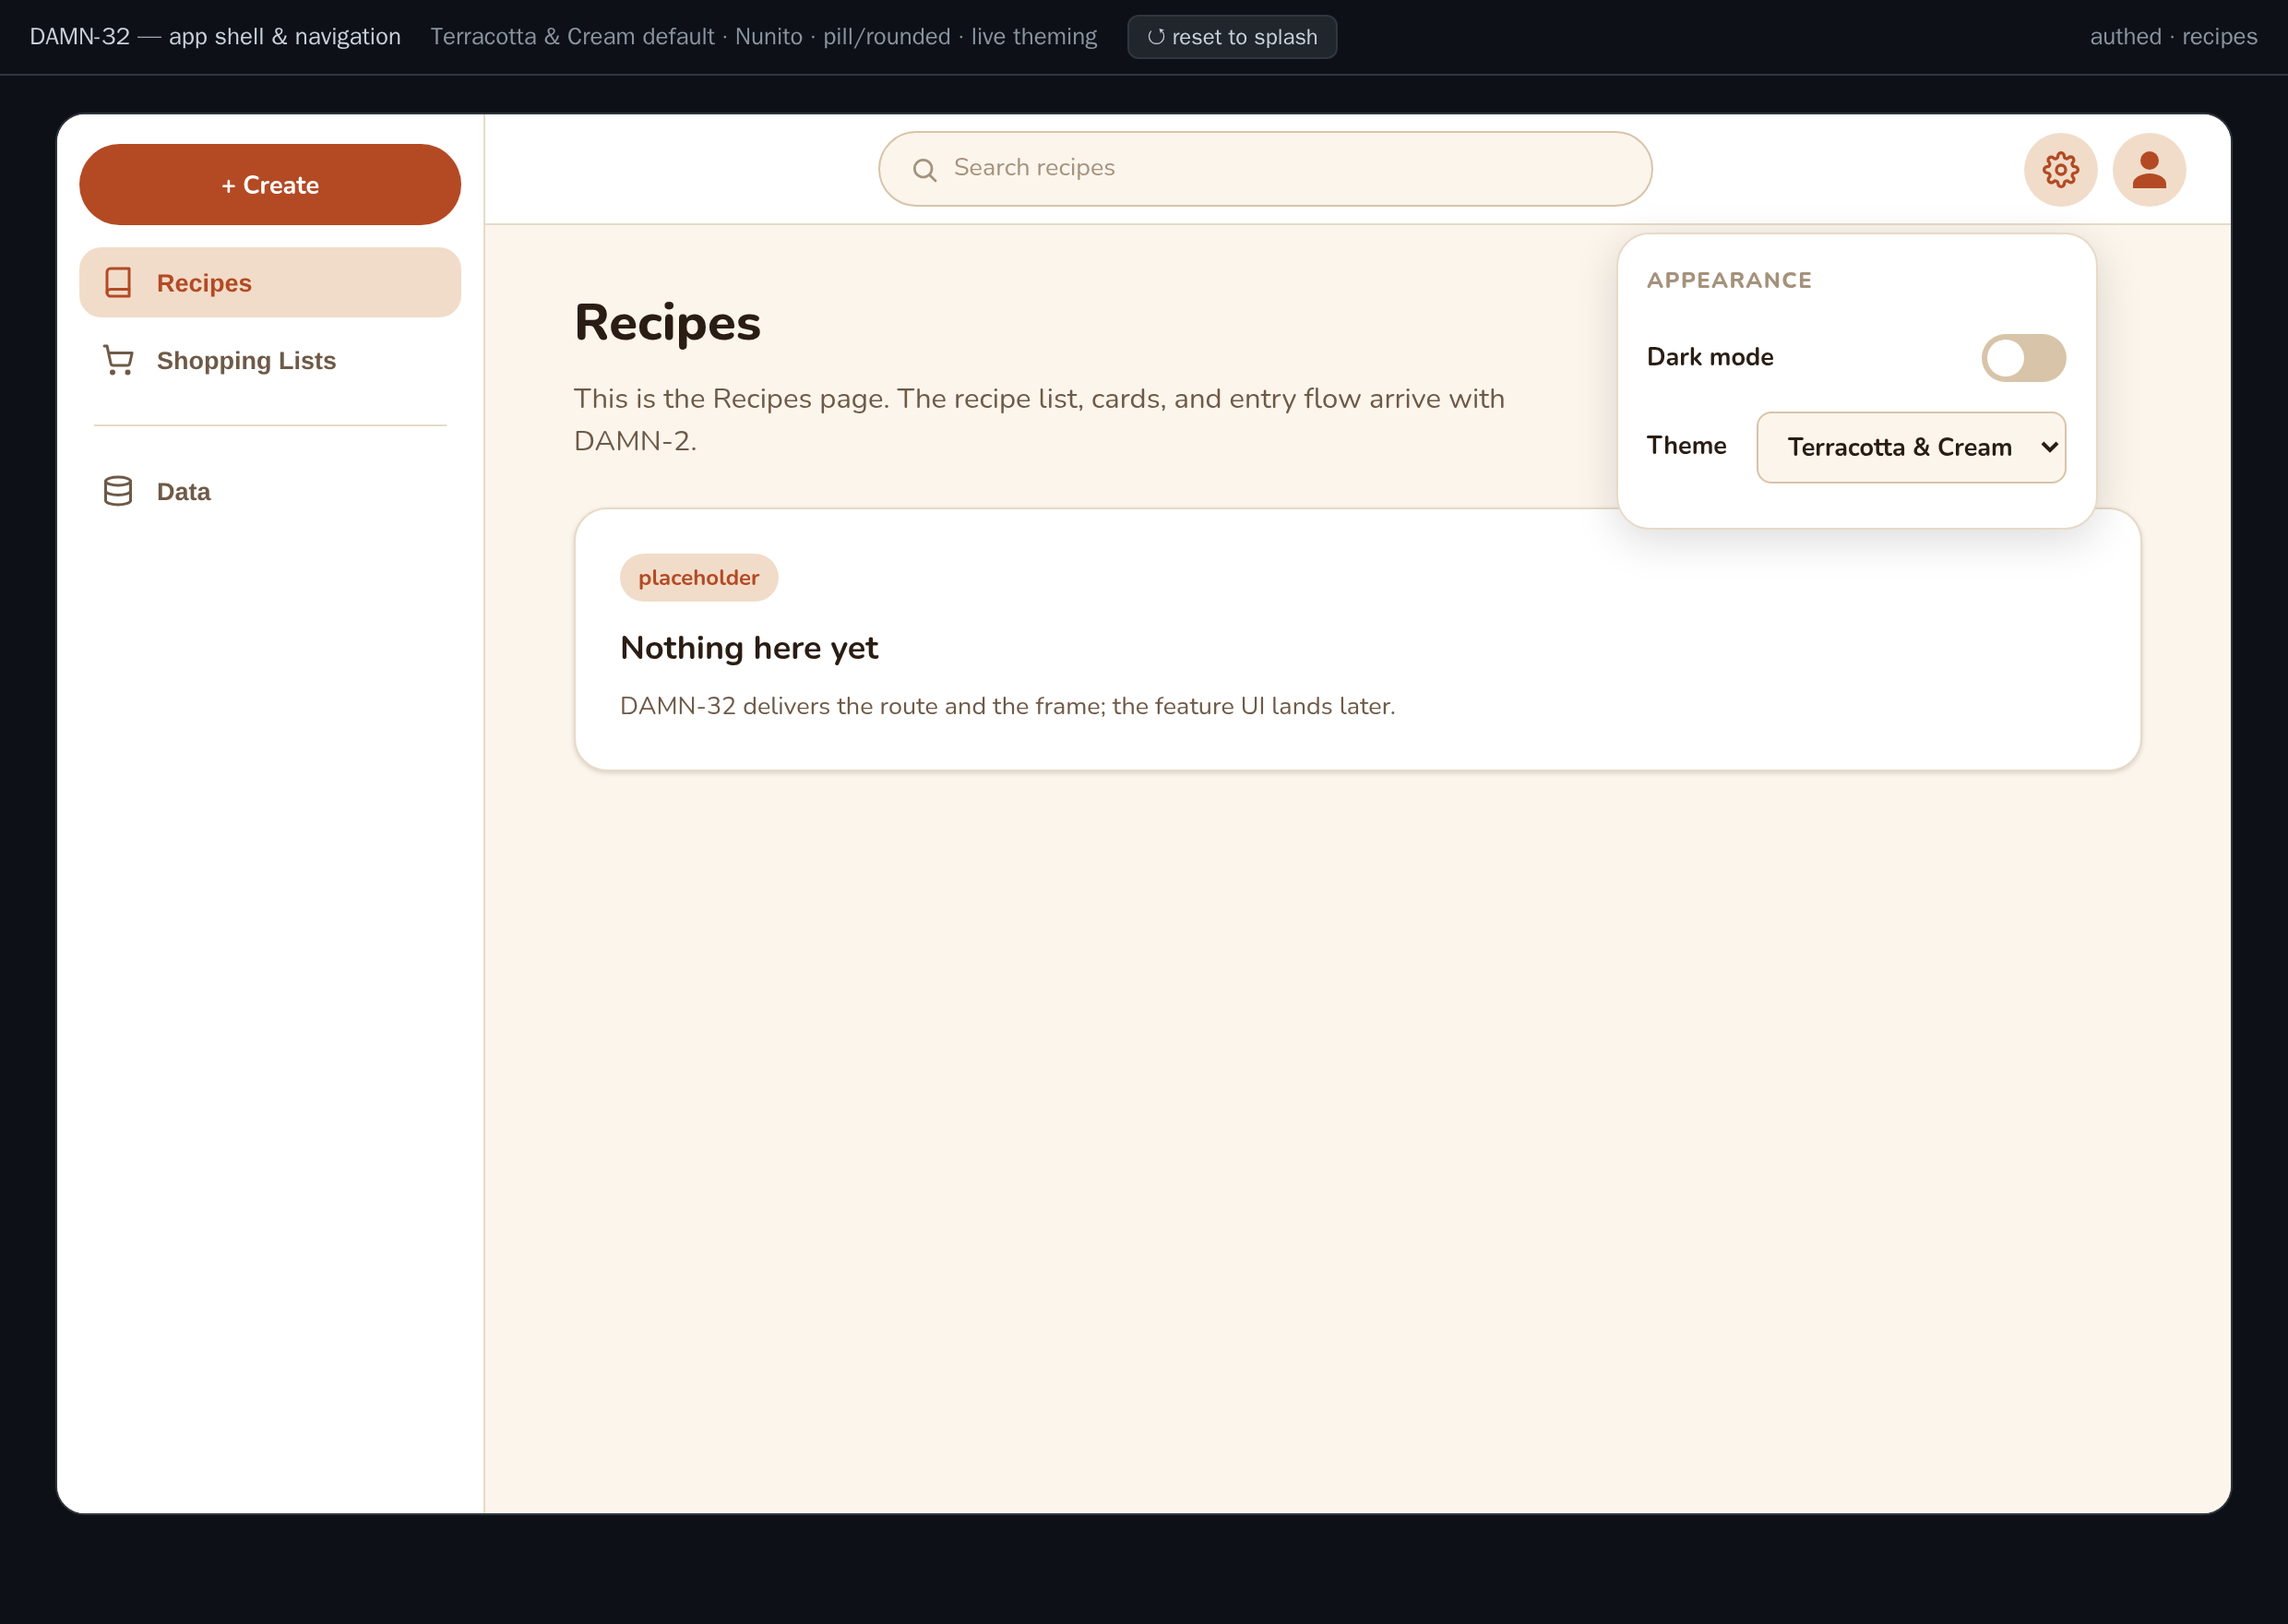
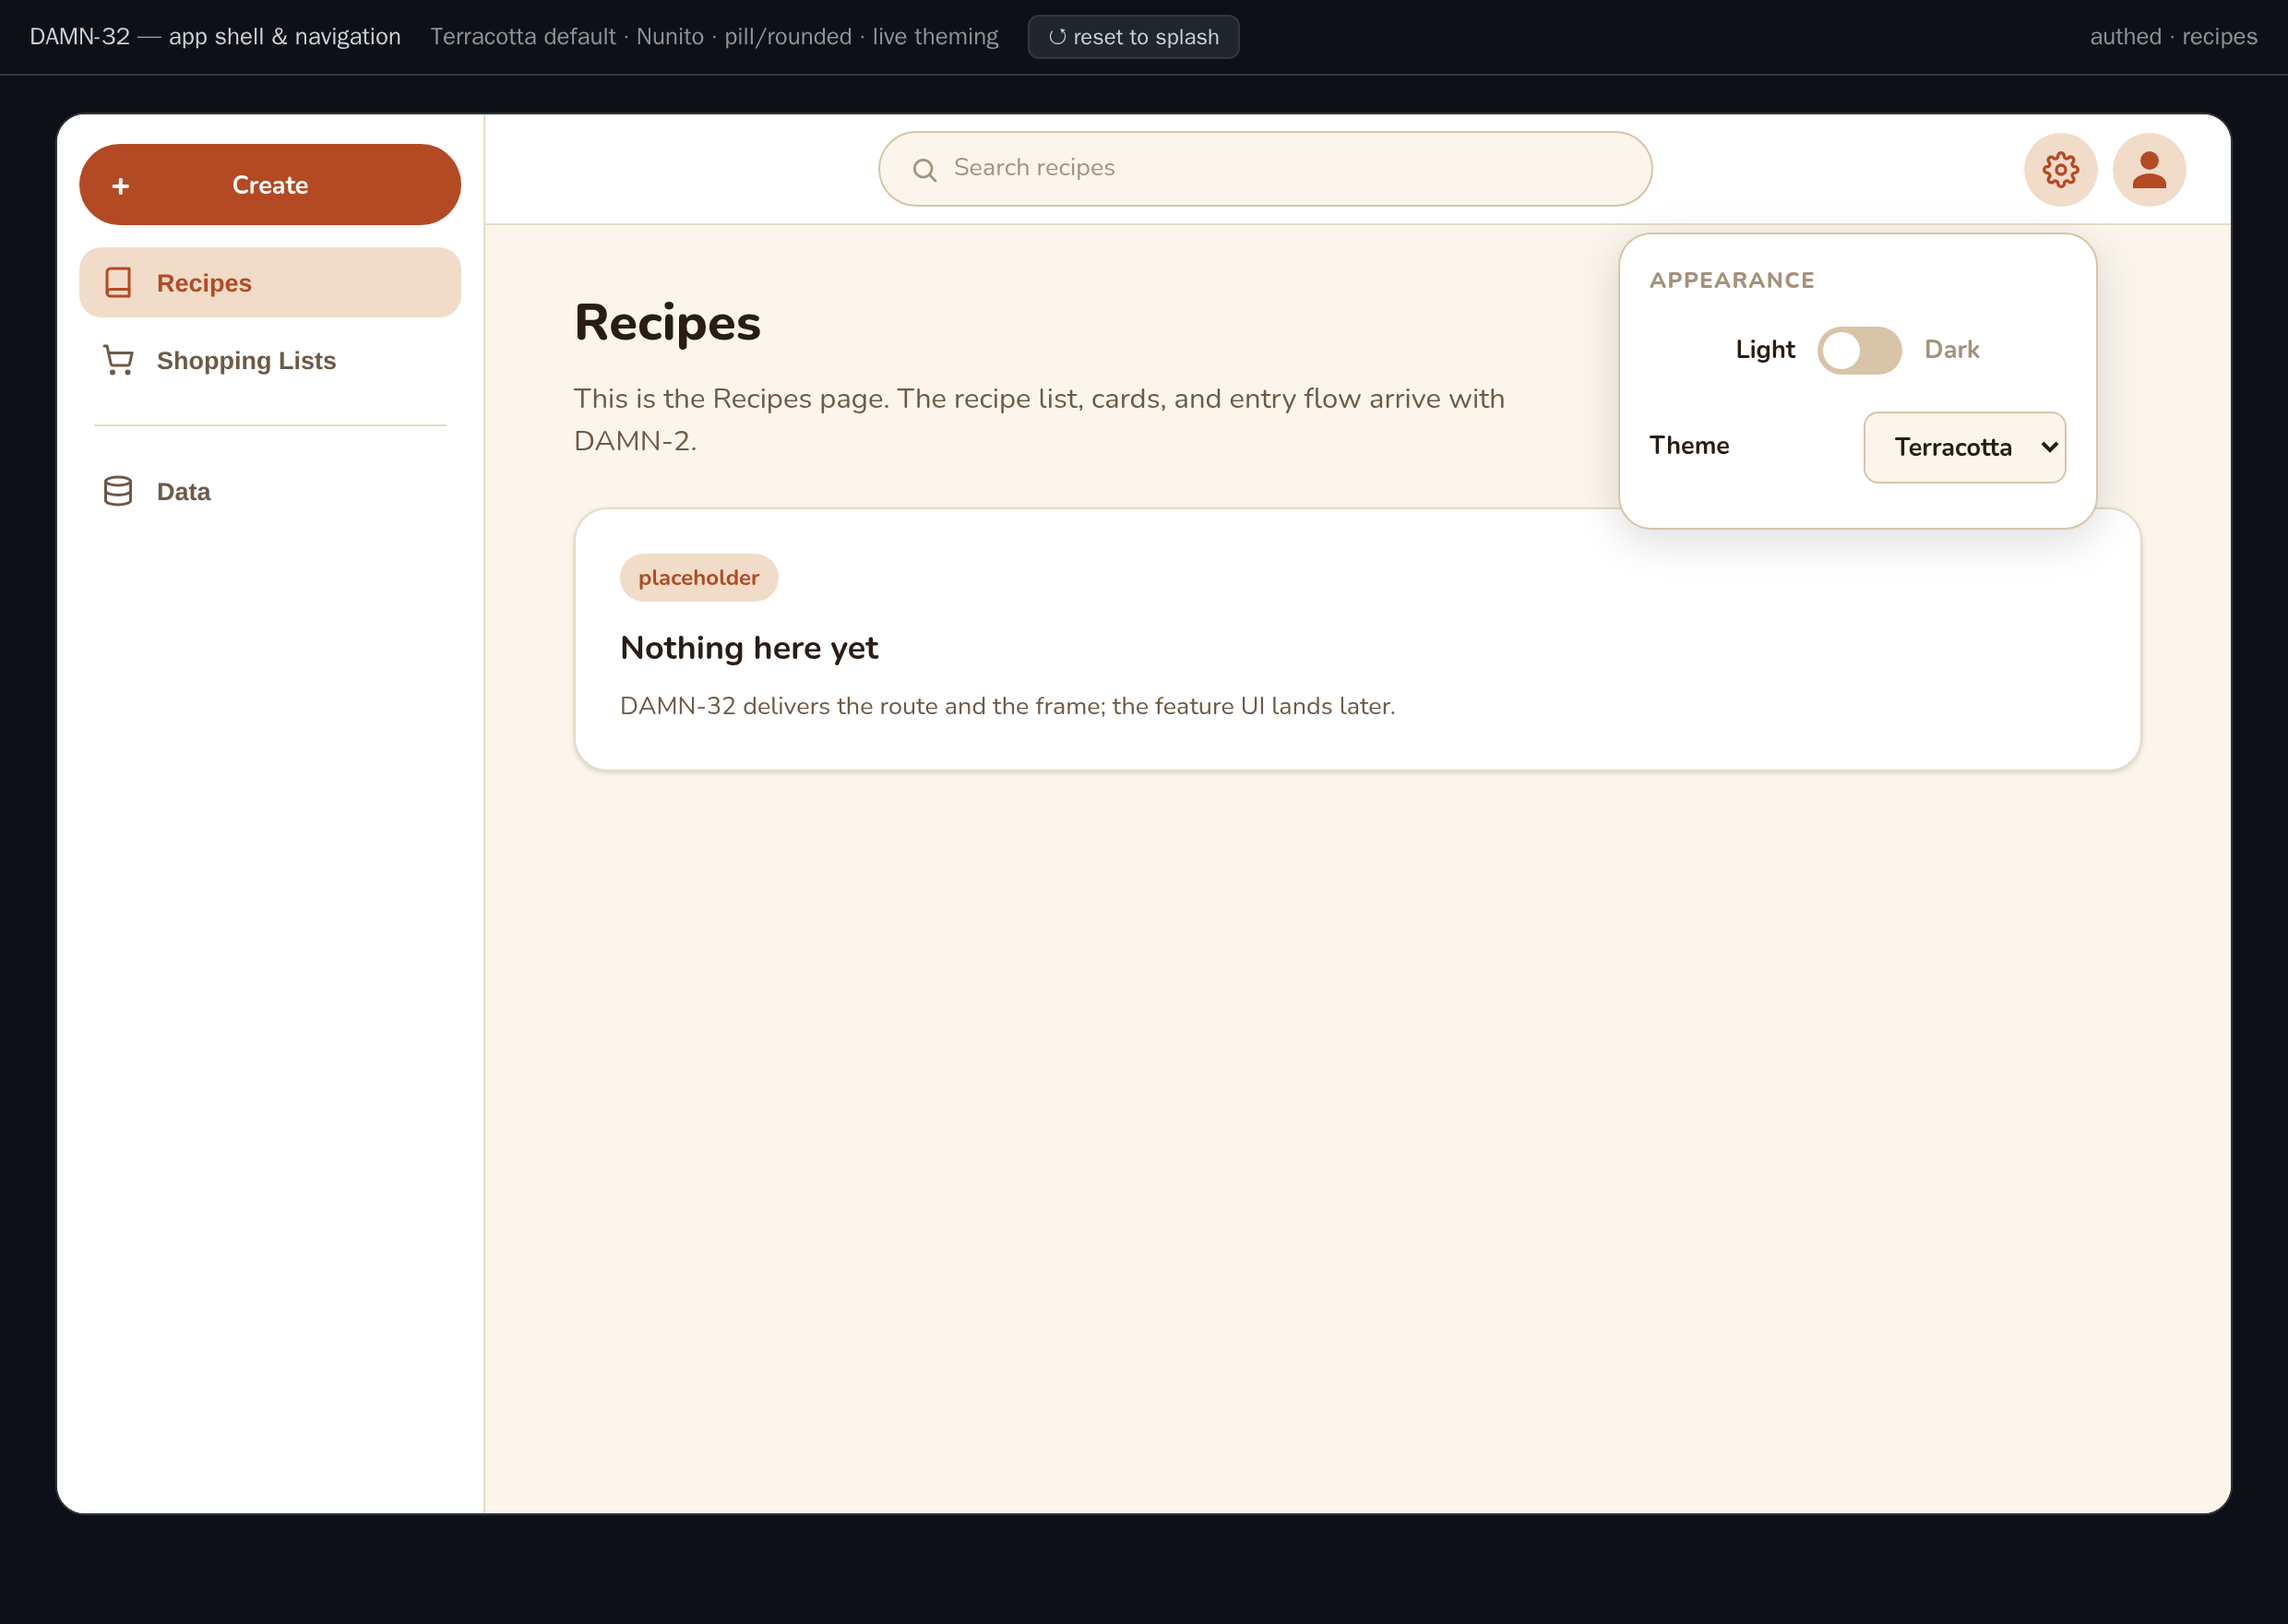
DAMN-32: settings menu + Create button review revisions
- appearance: "Light <> Dark" with the switch centered between the labels
  (labels also clickable), replacing the "Dark mode" single toggle
- theme names shortened to Terracotta / Sage / Plum
- Create button: "+" pinned left so "Create" is the centered element
- Create menu: overhangs the nav rail into the content pane + heavier
  drop shadow + subtle pop-in animation so it reads as floating above,
  not lost inside the rail (reduced-motion respected)

Claude-Session: https://claude.ai/code/session_01EenMmnY8aPtCiYP1EZCHrh

diff --git a/docs/features/DAMN-32-ux-framework-app-shell-navigation/mockups/app-shell.html b/docs/features/DAMN-32-ux-framework-app-shell-navigation/mockups/app-shell.html
@@ -187,6 +187,10 @@
   .btn-primary { background: var(--color-accent); color: var(--color-text-on-accent); }
   .btn-primary:hover { background: var(--color-accent-hover); }
   .btn-block { width: 100%; }
+  .btn-affix {
+    position: absolute; left: var(--space-4); top: 50%; transform: translateY(-50%);
+    font-weight: var(--weight-heavy); font-size: var(--text-lg); line-height: 1;
+  }
   .nav-item {
     display: flex; align-items: center; gap: var(--space-3);
     padding: 10px var(--space-3); border-radius: var(--radius-md);
@@ -199,6 +203,7 @@
   .nav-item.is-current { background: var(--color-accent-muted); color: var(--color-accent); }
   .nav-divider { height: 1px; background: var(--color-border); margin: var(--space-3) var(--space-2); }
   .nav-create-wrap { position: relative; margin-bottom: var(--space-2); }
+  .nav-create-wrap .btn { position: relative; }
 
   /* ---- main pane ---- */
   .main {
@@ -244,15 +249,21 @@
   }
 
   /* ---- popovers / menus ---- */
+  @keyframes menu-pop {
+    from { opacity: 0; transform: scale(.96) translateY(-6px); }
+    to   { opacity: 1; transform: scale(1) translateY(0); }
+  }
   .popover {
     position: absolute; z-index: 30; background: var(--color-bg-secondary);
-    border: 1px solid var(--color-border); border-radius: var(--radius-lg);
+    border: 1px solid var(--color-border-strong); border-radius: var(--radius-lg);
     box-shadow: var(--shadow-2); padding: var(--space-4); min-width: 260px;
+    transform-origin: top right; animation: menu-pop .13s ease-out;
   }
   .menu {
     position: absolute; z-index: 30; background: var(--color-bg-secondary);
-    border: 1px solid var(--color-border); border-radius: var(--radius-md);
+    border: 1px solid var(--color-border-strong); border-radius: var(--radius-md);
     box-shadow: var(--shadow-2); padding: var(--space-2); min-width: 180px;
+    transform-origin: top right; animation: menu-pop .13s ease-out;
   }
   .menu button {
     display: flex; width: 100%; align-items: center; gap: var(--space-3);
@@ -267,7 +278,18 @@
 
   .settings-pop { top: 64px; right: calc(var(--space-5) + 48px); }
   .avatar-menu { top: 64px; right: var(--space-5); }
-  .create-menu { top: 52px; left: 0; }
+
+  /* Create menu: overhangs the nav rail into the content pane + a heavier
+     drop shadow so it clearly floats above, not lost inside the rail. */
+  .create-menu {
+    top: 56px; left: 0; width: 248px; transform-origin: top left;
+    box-shadow: 0 16px 40px rgba(0,0,0,.22), 0 4px 12px rgba(0,0,0,.14);
+  }
+  .create-menu button { padding: 12px var(--space-3); font-size: var(--text-base); }
+
+  @media (prefers-reduced-motion: reduce) {
+    .popover, .menu { animation-duration: .01ms; }
+  }
 
   .settings-pop h3 {
     margin: 0 0 var(--space-3); font-size: var(--text-xs); letter-spacing: .06em;
@@ -278,6 +300,13 @@
     padding: var(--space-2) 0;
   }
   .setting-row label { font-size: var(--text-sm); font-weight: var(--weight-bold); }
+  .mode-row { justify-content: center; gap: var(--space-3); padding: var(--space-1) 0 var(--space-3); }
+  .mode-label {
+    font-size: var(--text-sm); font-weight: var(--weight-bold);
+    color: var(--color-text-tertiary); cursor: pointer; user-select: none;
+  }
+  .app:not([data-theme="dark"]) #mode-light,
+  .app[data-theme="dark"] #mode-dark { color: var(--color-text-primary); }
   .switch {
     width: 46px; height: 26px; border-radius: var(--radius-full); border: none; cursor: pointer;
     background: var(--color-border-strong); position: relative; flex: none; padding: 0;
@@ -314,7 +343,7 @@
 
 <header class="mock-meta">
   <strong>DAMN-32 — app shell &amp; navigation</strong>
-  <span>Terracotta &amp; Cream default · Nunito · pill/rounded · live theming</span>
+  <span>Terracotta default · Nunito · pill/rounded · live theming</span>
   <button id="reset-btn">↺ reset to splash</button>
   <span id="state-label" style="margin-left:auto;"></span>
 </header>
@@ -353,16 +382,17 @@
     <!-- settings popover -->
     <div class="popover settings-pop" id="settings-pop" hidden>
       <h3>Appearance</h3>
-      <div class="setting-row">
-        <label for="theme-switch">Dark mode</label>
-        <button class="switch" id="theme-switch" role="switch" aria-checked="false" aria-labelledby="theme-switch"></button>
+      <div class="setting-row mode-row">
+        <span class="mode-label" id="mode-light">Light</span>
+        <button class="switch" id="theme-switch" role="switch" aria-checked="false" aria-label="Dark mode"></button>
+        <span class="mode-label" id="mode-dark">Dark</span>
       </div>
       <div class="setting-row">
         <label for="palette-select">Theme</label>
         <select class="select" id="palette-select">
-          <option value="terracotta">Terracotta &amp; Cream</option>
-          <option value="sage">Sage &amp; Butter</option>
-          <option value="plum">Deep Plum &amp; Gold</option>
+          <option value="terracotta">Terracotta</option>
+          <option value="sage">Sage</option>
+          <option value="plum">Plum</option>
         </select>
       </div>
     </div>
@@ -383,7 +413,7 @@
 
   <div class="nav-rail" id="nav-rail" hidden>
     <div class="nav-create-wrap">
-      <button class="btn btn-primary btn-block" id="create-btn">+ Create</button>
+      <button class="btn btn-primary btn-block" id="create-btn"><span class="btn-affix">+</span>Create</button>
       <div class="menu create-menu" id="create-menu" hidden>
         <button>Recipe</button>
         <button>Shopping list</button>
@@ -451,10 +481,13 @@
   let prefs = loadPrefs();
   applyPrefs(prefs);
 
-  themeSwitch.addEventListener('click', () => {
-    prefs = { ...prefs, dark: !prefs.dark };
+  function setDark(dark) {
+    prefs = { ...prefs, dark };
     applyPrefs(prefs); savePrefs(prefs);           // paints immediately
-  });
+  }
+  themeSwitch.addEventListener('click', () => setDark(!prefs.dark));
+  document.getElementById('mode-light').addEventListener('click', () => setDark(false));
+  document.getElementById('mode-dark').addEventListener('click', () => setDark(true));
   paletteSelect.addEventListener('change', () => {
     prefs = { ...prefs, palette: paletteSelect.value };
     applyPrefs(prefs); savePrefs(prefs);           // paints immediately
